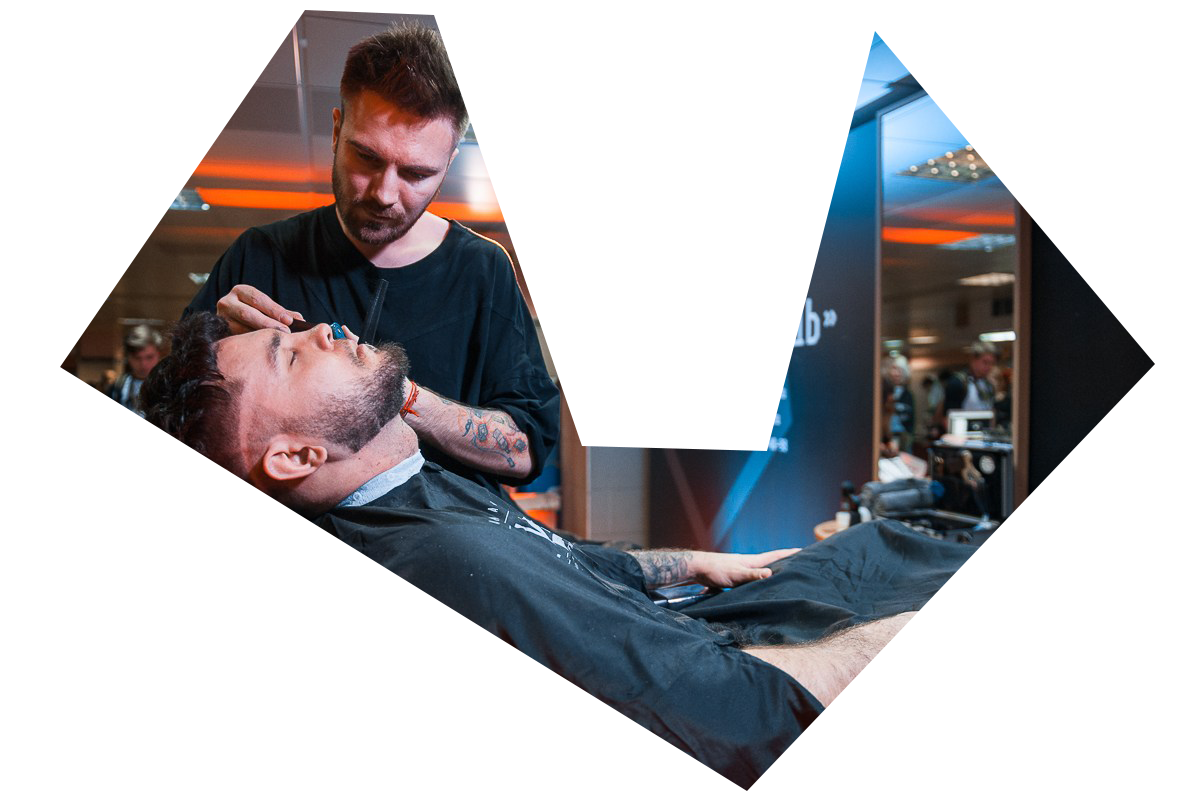
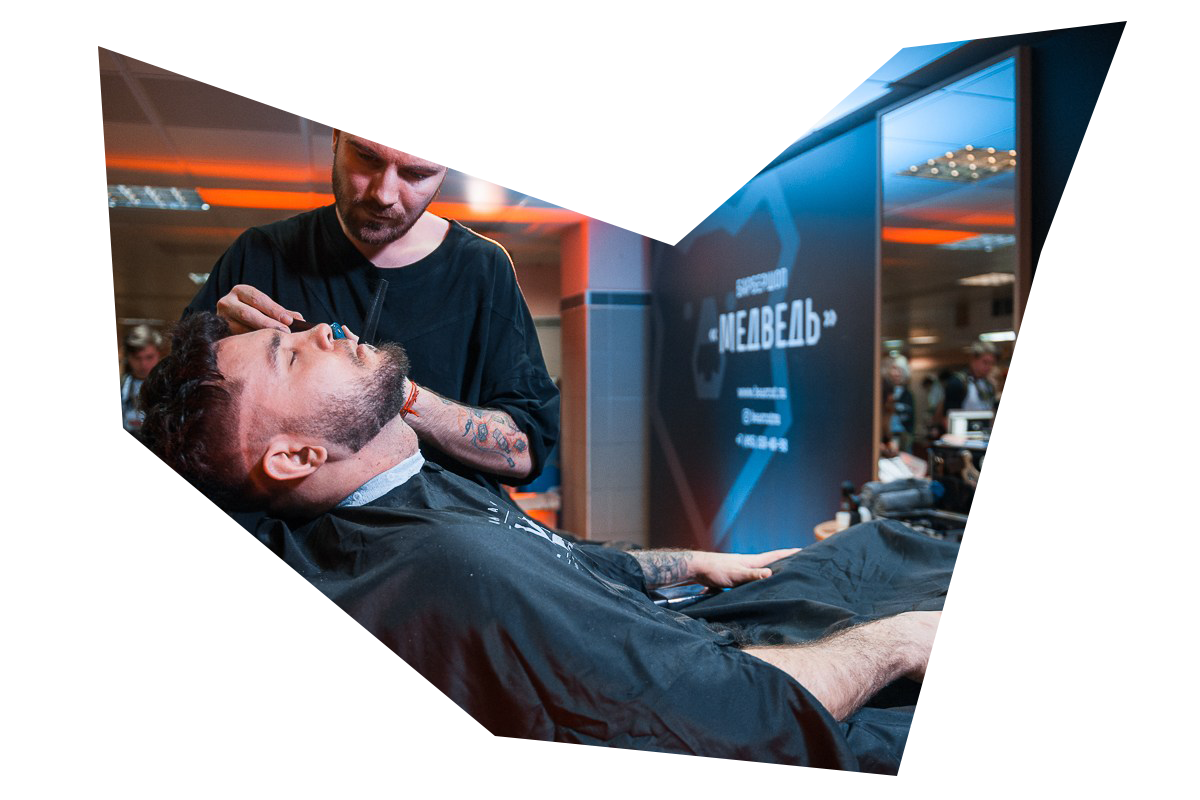
last

Changed region(s): [[0.0308, 0.0, 0.555, 0.9375], [0.555, 0.0312, 0.9558, 1.0], [0.4008, 0.125, 0.7092, 0.5625]]

diff --git a/scss/gallery.min.css b/scss/gallery.min.css
@@ -1,1 +1,1 @@
-body{box-sizing:border-box;line-height:1;width:100%;height:auto;background-color:#f5f1dd;background-image:url("../img/white-wood-texture-3.jpg");background-size:contain;background-position:top center;background-repeat:repeat-y}html,body,div,span,applet,object,iframe,h1,h2,h3,h4,h5,h6,p,blockquote,pre,a,abbr,acronym,address,big,cite,code,del,dfn,em,img,ins,kbd,q,s,samp,small,strike,strong,sub,sup,tt,var,b,u,i,center,dl,dt,dd,ol,ul,li,fieldset,form,label,legend,table,caption,tbody,tfoot,thead,tr,th,td,article,aside,canvas,details,embed,figure,figcaption,footer,header,hgroup,menu,nav,output,ruby,section,summary,time,mark,audio,video{margin:0;padding:0;border:0;font-size:100%;font:inherit;vertical-align:baseline}article,aside,details,figcaption,figure,footer,header,hgroup,menu,nav,section{display:block}ol,ul{list-style:none}blockquote,q{quotes:none}blockquote:before,blockquote:after{content:'';content:none}q:before,q:after{content:'';content:none}table{border-collapse:collapse;border-spacing:0}img{width:50%;height:auto}*{margin:0;padding:0}.first{width:100%;display:flex;justify-content:space-between}.block1{width:15%;height:500px;background-color:black;top:16%;left:4%;font-size:24px;transition-duration:2s, 3s}.block2{width:15%;height:500px;background-color:black;top:16%;left:23%;display:flex;justify-content:space-between;background-image:url(./img/f2.jpg);background-attachment:fixed;background-repeat:no-repeat;text-align:-webkit-center}.block3{width:15%;height:500px;background-color:black;top:16%;left:42%;display:flex;justify-content:space-between;background-image:url(./img/a3.jpg);background-attachment:fixed;background-repeat:no-repeat}.block4{width:15%;height:500px;background-color:black;top:16%;left:61%;display:flex;justify-content:space-between;background-image:url(./img/a4.jpg);background-attachment:fixed;background-repeat:no-repeat}.block5{width:5%;height:500px;background-color:black;top:16%;left:80%;display:flex;justify-content:space-between;background-image:url(./img/a5.jpg);background-attachment:fixed;background-repeat:no-repeat;background-position:left}.true_crashed_mirror{width:100%}.true_crashed_mirror .part{width:100%}.true_crashed_mirror .part .one{position:absolute;left:100px}.true_crashed_mirror .part .one img{width:40%}.true_crashed_mirror .part .two{position:absolute;left:400px;margin-top:0}.true_crashed_mirror .part .two img{width:50%;height:614px}.true_crashed_mirror .part .three{position:absolute;left:780px}.true_crashed_mirror .part .three img{width:80%;height:307px}.crashed_mirror{width:100%;height:auto;position:relative;margin-top:100}.second{display:block;width:400px;transform:rotate(45deg);overflow:hidden;padding-top:550px;padding-left:550px;position:absolute}.second>img{max-width:100%;transform:rotate(-45deg) scale(1.42);margin-bottom:0px}.third{width:400px;transform:rotate(44deg);overflow:hidden;position:absolute;padding-left:-20px;top:895px}.third>img{max-width:100%;transform:rotate(-10deg) scale(1.1)}.chetiri{width:300px;transform:rotate(90deg);overflow:hidden;position:absolute;top:800px;left:700px}.chetiri>img{max-width:100%;transform:rotate(-45deg) scale(1.112)}.pat{width:400px;transform:rotate(0deg);overflow:hidden;position:absolute;top:700px;left:800px}.pat>img{max-width:100%;transform:rotate(-40deg) scale(1.112)}.treyg{position:absolute;top:897px;left:1170px;overflow:hidden;width:150px}.treyg>img{max-width:100%;transform:rotate(20deg) scale(1.112)}h2{border-bottom:1px solid black;margin:10px 0px 40px;color:#111;font-size:2.4em;text-transform:uppercase;text-align:center}.crashed_mirror{width:100%}.maz1{position:absolute;top:1090px;left:160px;overflow:hidden;width:350px}.maz1>img{max-width:100%;transform:rotate(410deg) scale(1.112)}.maz2{position:absolute;top:1197px;left:3px;overflow:hidden;width:150px}.maz2>img{max-width:100%;transform:rotate(20deg) scale(1.112)}.maz3{position:absolute;top:1250px;left:540px;overflow:hidden;width:450px}.maz3>img{max-width:100%;transform:rotate(-60deg) scale(1.112)}.maz4{position:absolute;top:1300px;left:900px;overflow:hidden;width:400px}.maz4>img{max-width:100%;transform:rotate(60deg) scale(1.112)}
+body{box-sizing:border-box;line-height:1;width:100%;height:auto;background-color:#f5f1dd;background-image:url("../img/wood-texture-7.jpg");background-size:contain;background-position:top center;background-repeat:repeat-y}html,body,div,span,applet,object,iframe,h1,h2,h3,h4,h5,h6,p,blockquote,pre,a,abbr,acronym,address,big,cite,code,del,dfn,em,img,ins,kbd,q,s,samp,small,strike,strong,sub,sup,tt,var,b,u,i,center,dl,dt,dd,ol,ul,li,fieldset,form,label,legend,table,caption,tbody,tfoot,thead,tr,th,td,article,aside,canvas,details,embed,figure,figcaption,footer,header,hgroup,menu,nav,output,ruby,section,summary,time,mark,audio,video{margin:0;padding:0;border:0;font-size:100%;font:inherit;vertical-align:baseline}article,aside,details,figcaption,figure,footer,header,hgroup,menu,nav,section{display:block}ol,ul{list-style:none}blockquote,q{quotes:none}blockquote:before,blockquote:after{content:'';content:none}q:before,q:after{content:'';content:none}table{border-collapse:collapse;border-spacing:0}img{width:50%;height:auto}*{margin:0;padding:0}.first{width:100%;display:flex;justify-content:space-between}.true_crashed_mirror{width:100%;height:auto;position:static}.true_crashed_mirror .part{width:100%}.true_crashed_mirror .part .one{position:absolute;left:100px}.true_crashed_mirror .part .one img{width:40%;height:300px}.true_crashed_mirror .part .two{position:absolute;left:400px;margin-top:0}.true_crashed_mirror .part .two img{width:60%;height:590px}.true_crashed_mirror .part .three{position:absolute;left:730px}.true_crashed_mirror .part .three img{width:90%;height:300px}.true_crashed_mirror .part .four{position:absolute;top:420px;left:-37px;width:40%}.true_crashed_mirror .part .four img{width:100%;height:320px}.true_crashed_mirror .part .five{position:absolute;top:520px;left:315px}.true_crashed_mirror .part .five img{width:65%;height:500px}.true_crashed_mirror .part .six{position:absolute;top:380px;left:855px}.true_crashed_mirror .part .six img{width:90%}.true_crashed_mirror .part .seven{position:absolute;top:760px;left:80px}.true_crashed_mirror .part .seven img{width:40%}.true_crashed_mirror .part .eight{position:absolute;top:740px;left:680px}.true_crashed_mirror .part .eight img{width:82%}.crashed_mirror{width:100%;height:auto;position:relative;margin-top:100}.second{display:block;width:400px;transform:rotate(45deg);overflow:hidden;padding-top:550px;padding-left:550px;position:absolute}.second>img{max-width:100%;transform:rotate(-45deg) scale(1.42);margin-bottom:0px}.third{width:400px;transform:rotate(44deg);overflow:hidden;position:absolute;padding-left:-20px;top:895px}.third>img{max-width:100%;transform:rotate(-10deg) scale(1.1)}.chetiri{width:300px;transform:rotate(90deg);overflow:hidden;position:absolute;top:800px;left:700px}.chetiri>img{max-width:100%;transform:rotate(-45deg) scale(1.112)}.pat{width:400px;transform:rotate(0deg);overflow:hidden;position:absolute;top:700px;left:800px}.pat>img{max-width:100%;transform:rotate(-40deg) scale(1.112)}.treyg{position:absolute;top:897px;left:1170px;overflow:hidden;width:150px}.treyg>img{max-width:100%;transform:rotate(20deg) scale(1.112)}h2{border-bottom:1px solid black;margin:10px 0px 40px;color:#111;font-size:2.4em;text-transform:uppercase;text-align:center}.crashed_mirror{width:100%}.maz1{position:absolute;top:1090px;left:160px;overflow:hidden;width:350px}.maz1>img{max-width:100%;transform:rotate(410deg) scale(1.112)}.maz2{position:absolute;top:1197px;left:3px;overflow:hidden;width:150px}.maz2>img{max-width:100%;transform:rotate(20deg) scale(1.112)}.maz3{position:absolute;top:1250px;left:540px;overflow:hidden;width:450px}.maz3>img{max-width:100%;transform:rotate(-60deg) scale(1.112)}.maz4{position:absolute;top:1300px;left:900px;overflow:hidden;width:400px}.maz4>img{max-width:100%;transform:rotate(60deg) scale(1.112)}

diff --git a/scss/gallery.scss b/scss/gallery.scss
@@ -4,7 +4,7 @@ body{
   width:100%;
   height: auto;
   background-color: #f5f1dd;
-  background-image: url('../img/white-wood-texture-3.jpg');
+  background-image: url('../img/wood-texture-7.jpg');
   background-size: contain;
   background-position: top center;
   background-repeat:repeat-y;
@@ -40,117 +40,109 @@ img{
   width:50%;
   height:auto;
 }
+
 * {
   margin: 0;
   padding: 0;
 }
+
 .first{
   width:100%;
   display: flex;
   justify-content: space-between;
 }
-.block1 {
-  width: 15%;
-  height: 500px;
-  background-color: black;
-  top: 16%;
-  left: 4%;
-  font-size: 24px;
-  transition-duration: 2s, 3s;
-}
 
-
-
-.block2 {
-  width: 15%;
-  height: 500px;
-  background-color: black;
-  top: 16%;
-  left: 23%;
-  display: flex;
-  justify-content: space-between;
-  background-image: url(./img/f2.jpg);
-  background-attachment: fixed;
-  background-repeat: no-repeat;
-  text-align: -webkit-center;
-}
-
-.block3 {
-  width: 15%;
-  height: 500px;
-  background-color: black;
-  top: 16%;
-  left: 42%;
-  display: flex;
-  justify-content: space-between;
-  background-image: url(./img/a3.jpg);
-  background-attachment: fixed;
-  background-repeat: no-repeat;
-}
-
-.block4 {
-  width: 15%;
-  height: 500px;
-  background-color: black;
-  top: 16%;
-  left: 61%;
-  display: flex;
-  justify-content: space-between;
-  background-image: url(./img/a4.jpg);
-  background-attachment: fixed;
-  background-repeat: no-repeat;
-}
-
-.block5 {
-  width: 5%;
-  height: 500px;
-  background-color: black;
-  top: 16%;
-  left: 80%;
-  display: flex;
-  justify-content: space-between;
-  background-image: url(./img/a5.jpg);
-  background-attachment: fixed;
-  background-repeat: no-repeat;
-  background-position: left;
-}
 .true_crashed_mirror{
   width:100%;
+  height:auto;
+  position:static;
   .part{
     width:100%;
-      .one{
-        position:absolute;
-        left:100px;
-        img{
-          width:40%;
-        }
+    .one{
+      position:absolute;
+      left:100px;
+      img{
+        width:40%;
+        height:300px;
       }
-      .two{
-        position: absolute;
-        left:400px;
-        margin-top:0;
-        img{
-          width:50%;
-          height:614px;
-        }
-      }
-      .three{
-        position:absolute;
-        left:780px;
-        img{
-          width:80%;
-          height:307px;
-        }
-      }
-  }
+    }
 
+    .two{
+      position: absolute;
+      left:400px;
+      margin-top:0;
+      img{
+        width:60%;
+        height:590px;
+      }
+    }
+
+    .three{
+      position:absolute;
+      left:730px;
+      img{
+        width:90%;
+        height:300px;
+      }
+    }
+
+    .four{
+      position:absolute;
+      top:420px;
+      left:-37px;
+      width:40%;
+      img{
+        width:100%;
+        height:320px;
+      }
+    }
+
+    .five{
+      position:absolute;
+      top:520px;
+      left:315px;
+      img{
+        width:65%;
+        height:500px;
+      }
+    }
+
+    .six{
+      position:absolute;
+      top:380px;
+      left:855px;
+      img{
+        width:90%;
+      }
+    }
+
+    .seven{
+      position:absolute;
+      top:760px;
+      left:80px;
+      img{
+        width:40%;
+      }
+    }
+
+    .eight{
+      position:absolute;
+      top:740px;
+      left:680px;
+      img{
+        width:82%;
+      }
+    }
+  }
 }
+
 .crashed_mirror {
   width:100%;
   height:auto;
   position:relative;
   margin-top:100;
 }
+
 .second {
   display:block;
   width: 400px;
@@ -165,6 +157,7 @@ img{
     margin-bottom: 0px;
   }
 }
+
 .third {
   width: 400px;
   transform: rotate(44deg);

diff --git a/js/shake.js b/js/shake.js
@@ -1,40 +1,33 @@
-$('#img1').click(function() {
-  $( '#img1' ).effect( "shake",{times:3,distance:7},1000);
+$('.one>img').hover(function() {
+  $( '.one>img' ).effect( "shake",{times:3,distance:2},1000);
 });
-$('#img1').click(function() {
-    $( '#img1' ).css( {"z-index":"100"});
-});
-$('#img2').hover(function() {
-  $( '#img2' ).effect( "shake",{times:3,distance:2},1000);
+$('.two>img').hover(function() {
+  $( '.two>img' ).effect( "shake",{times:3,distance:2},1000);
 });
 
-$('#img3').hover(function() {
-  $( '#img3' ).effect( "shake",{times:3,distance:2},1000);
+$('.three>img').hover(function() {
+  $( '.three>img' ).effect( "shake",{times:3,distance:2},1000);
 });
 
-$('#img4').hover(function() {
-  $( '#img4' ).effect( "shake",{times:2,distance:2},1000 );
+$('.four>img').hover(function() {
+  $( '.four>img' ).effect( "shake",{times:3,distance:2},1000 );
 });
-$('#img5').hover(function() {
-  $( '#img5' ).effect( "shake",{times:4,distance:2},1000 );
-});
-
-$('#img6').hover(function() {
-  $( '#img6' ).effect( "shake",{times:3,distance:2},1000 );
+$('.five>img').hover(function() {
+  $( '.five>img' ).effect( "shake",{times:3,distance:2},1000 );
 });
 
-$('#img7').hover(function() {
-  $( '#img7' ).effect( "shake",{times:3,distance:2},1000 );
+$('.six>img').hover(function() {
+  $( '.six>img' ).effect( "shake",{times:3,distance:2},1000 );
 });
 
-$('#img8').hover(function() {
-  $( '#img8' ).effect( "shake",{times:3,distance:2},1000 );
+$('.seven>img').hover(function() {
+  $( '.seven>img' ).effect( "shake",{times:3,distance:2},1000 );
 });
 
-$('#img9').hover(function() {
-  $( '#img9' ).effect( "shake",{times:3,distance:2},1000 );
+$('.eight>img').hover(function() {
+  $( '.eight>img' ).effect( "shake",{times:3,distance:2},1000 );
 });
 
-$('#img10').hover(function() {
-  $( '#img10' ).effect( "shake",{times:3,distance:2},1000 );
+$('.nine>img').hover(function() {
+  $( '.nine>img' ).effect( "shake",{times:3,distance:2},1000 );
 });

diff --git a/scss/about.css b/scss/about.css
@@ -1,8 +1,8 @@
 @import url(https://fonts.googleapis.com/css?family=Open+Sans:400,300,600);
 
 .my_slider {
+  display:none;
   border-top: 5px solid #fff;
-  background: #58DDAF;
   color: #2a2a2a;
 }
 
@@ -84,4 +84,9 @@ a.control_next {
   margin: 10px auto;
   width: 160px;
   font-size: 18px;
+}
+@media only screen  (min-width:320px) and (max-width:768px){
+  .my_slider{
+    display:inline-block;
+  }
 }

diff --git a/scss/main.css b/scss/main.css
@@ -1,9 +1,9 @@
 body {
   padding: 0;
   margin: 0;
-font-family: 'Montserrat Alternates', sans-serif;
-height: 100%;
-width: 100%;
+  font-family: 'Montserrat Alternates', sans-serif;
+  height: 100%;
+  width: 100%;
 }
 header{
 background-image: url(../img/main4.jpg);
